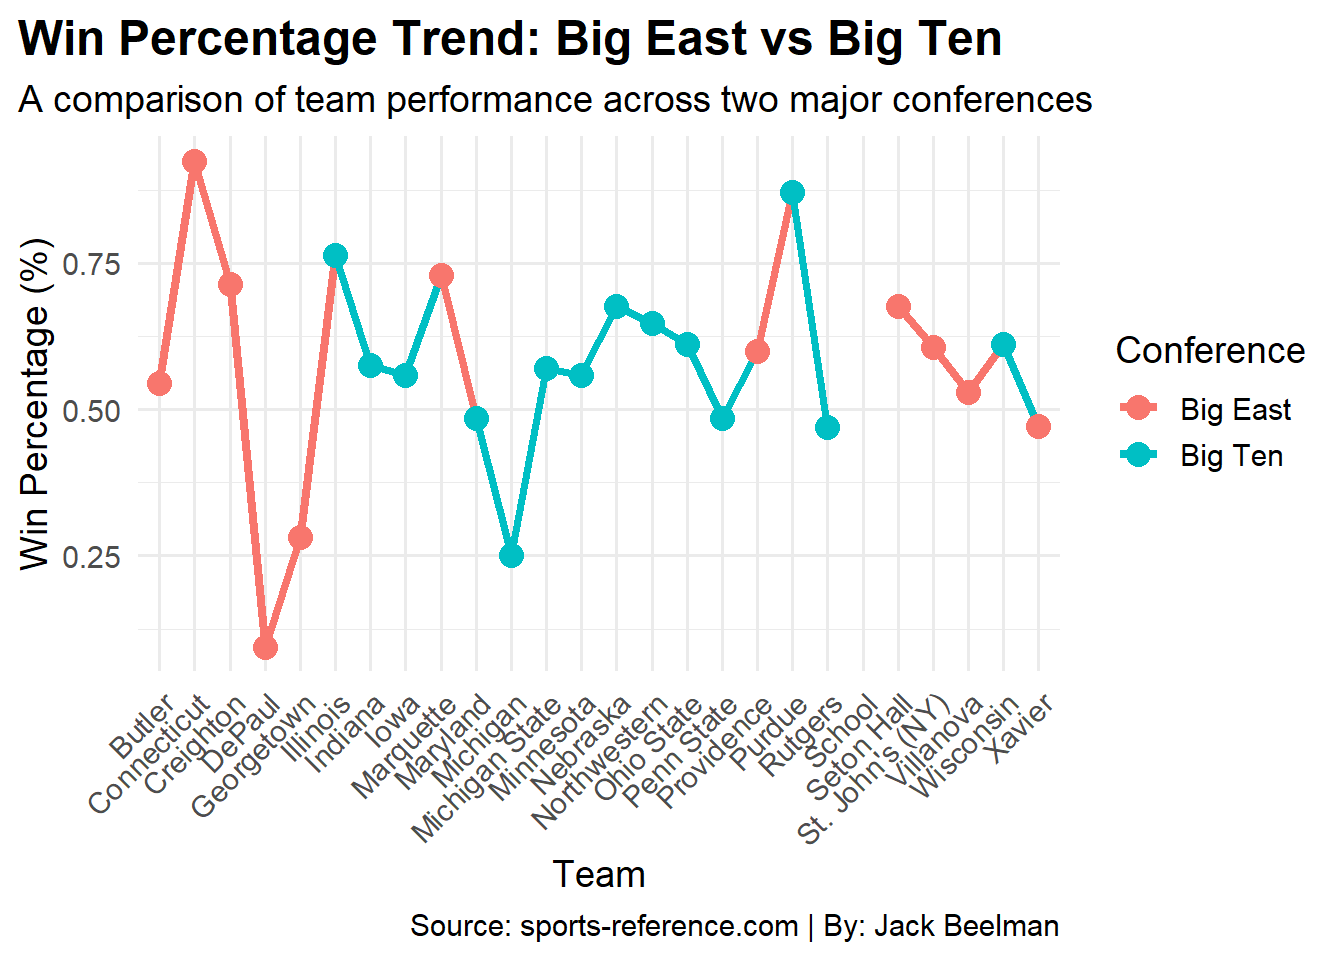
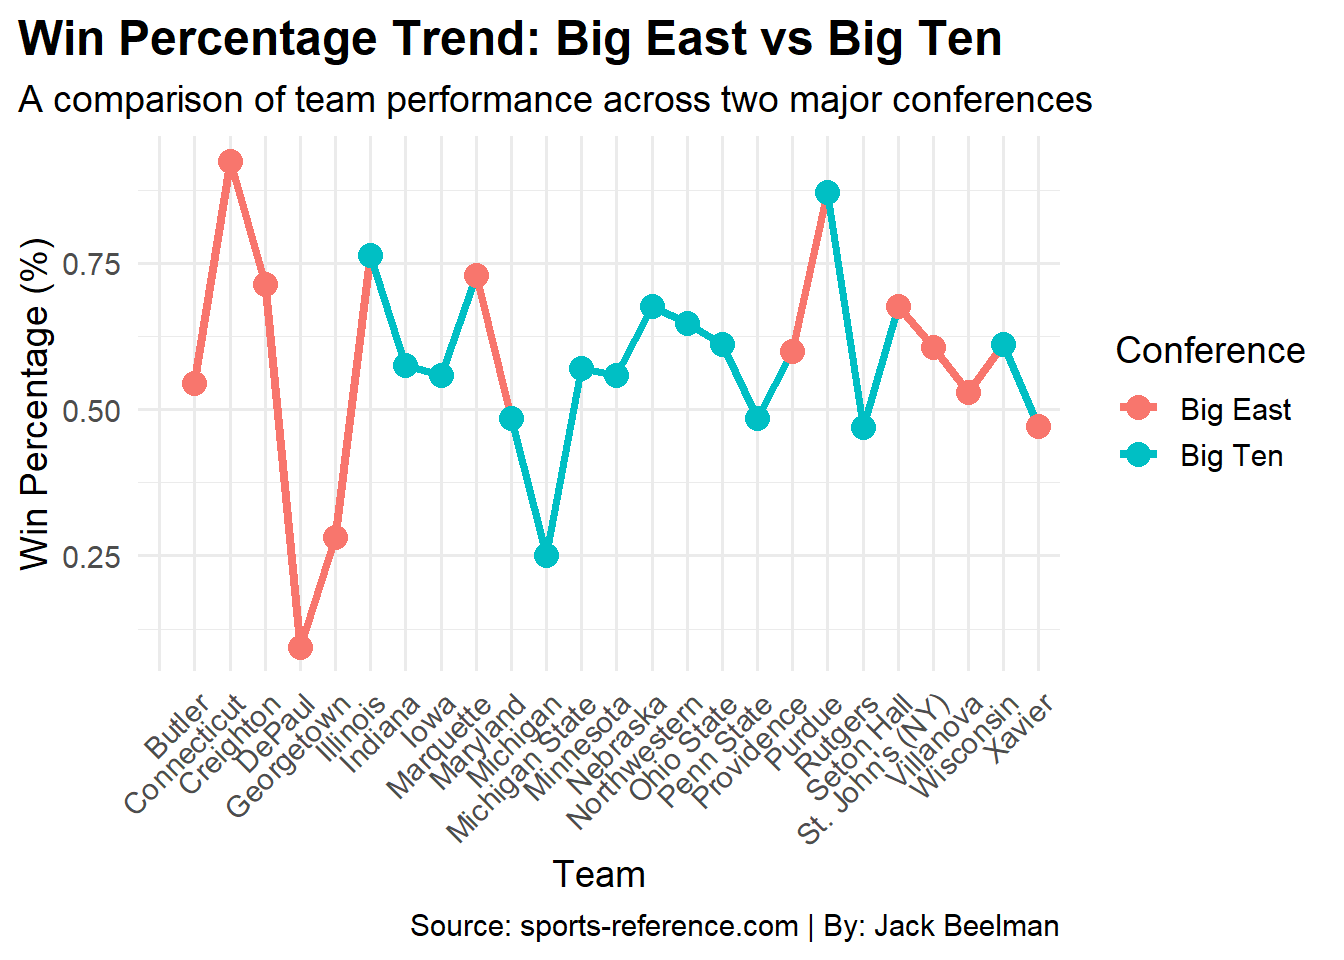
Update

Changed region(s): [[0.0938, 0.1562, 0.6875, 0.6875], [0.0625, 0.7188, 0.6562, 0.875]]

diff --git a/posts/Big-East-Scoring/index.html b/posts/Big-East-Scoring/index.html
@@ -333,6 +333,10 @@ pre > code.sourceCode > span > a:first-child::before { text-decoration: underlin
 </details>
 <div class="cell-output cell-output-stderr">
 <pre><code>Warning: Removed 2 rows containing missing values or values outside the scale range
+(`geom_line()`).</code></pre>
+</div>
+<div class="cell-output cell-output-stderr">
+<pre><code>Warning: Removed 2 rows containing missing values or values outside the scale range
 (`geom_point()`).</code></pre>
 </div>
 <div class="cell-output-display">
